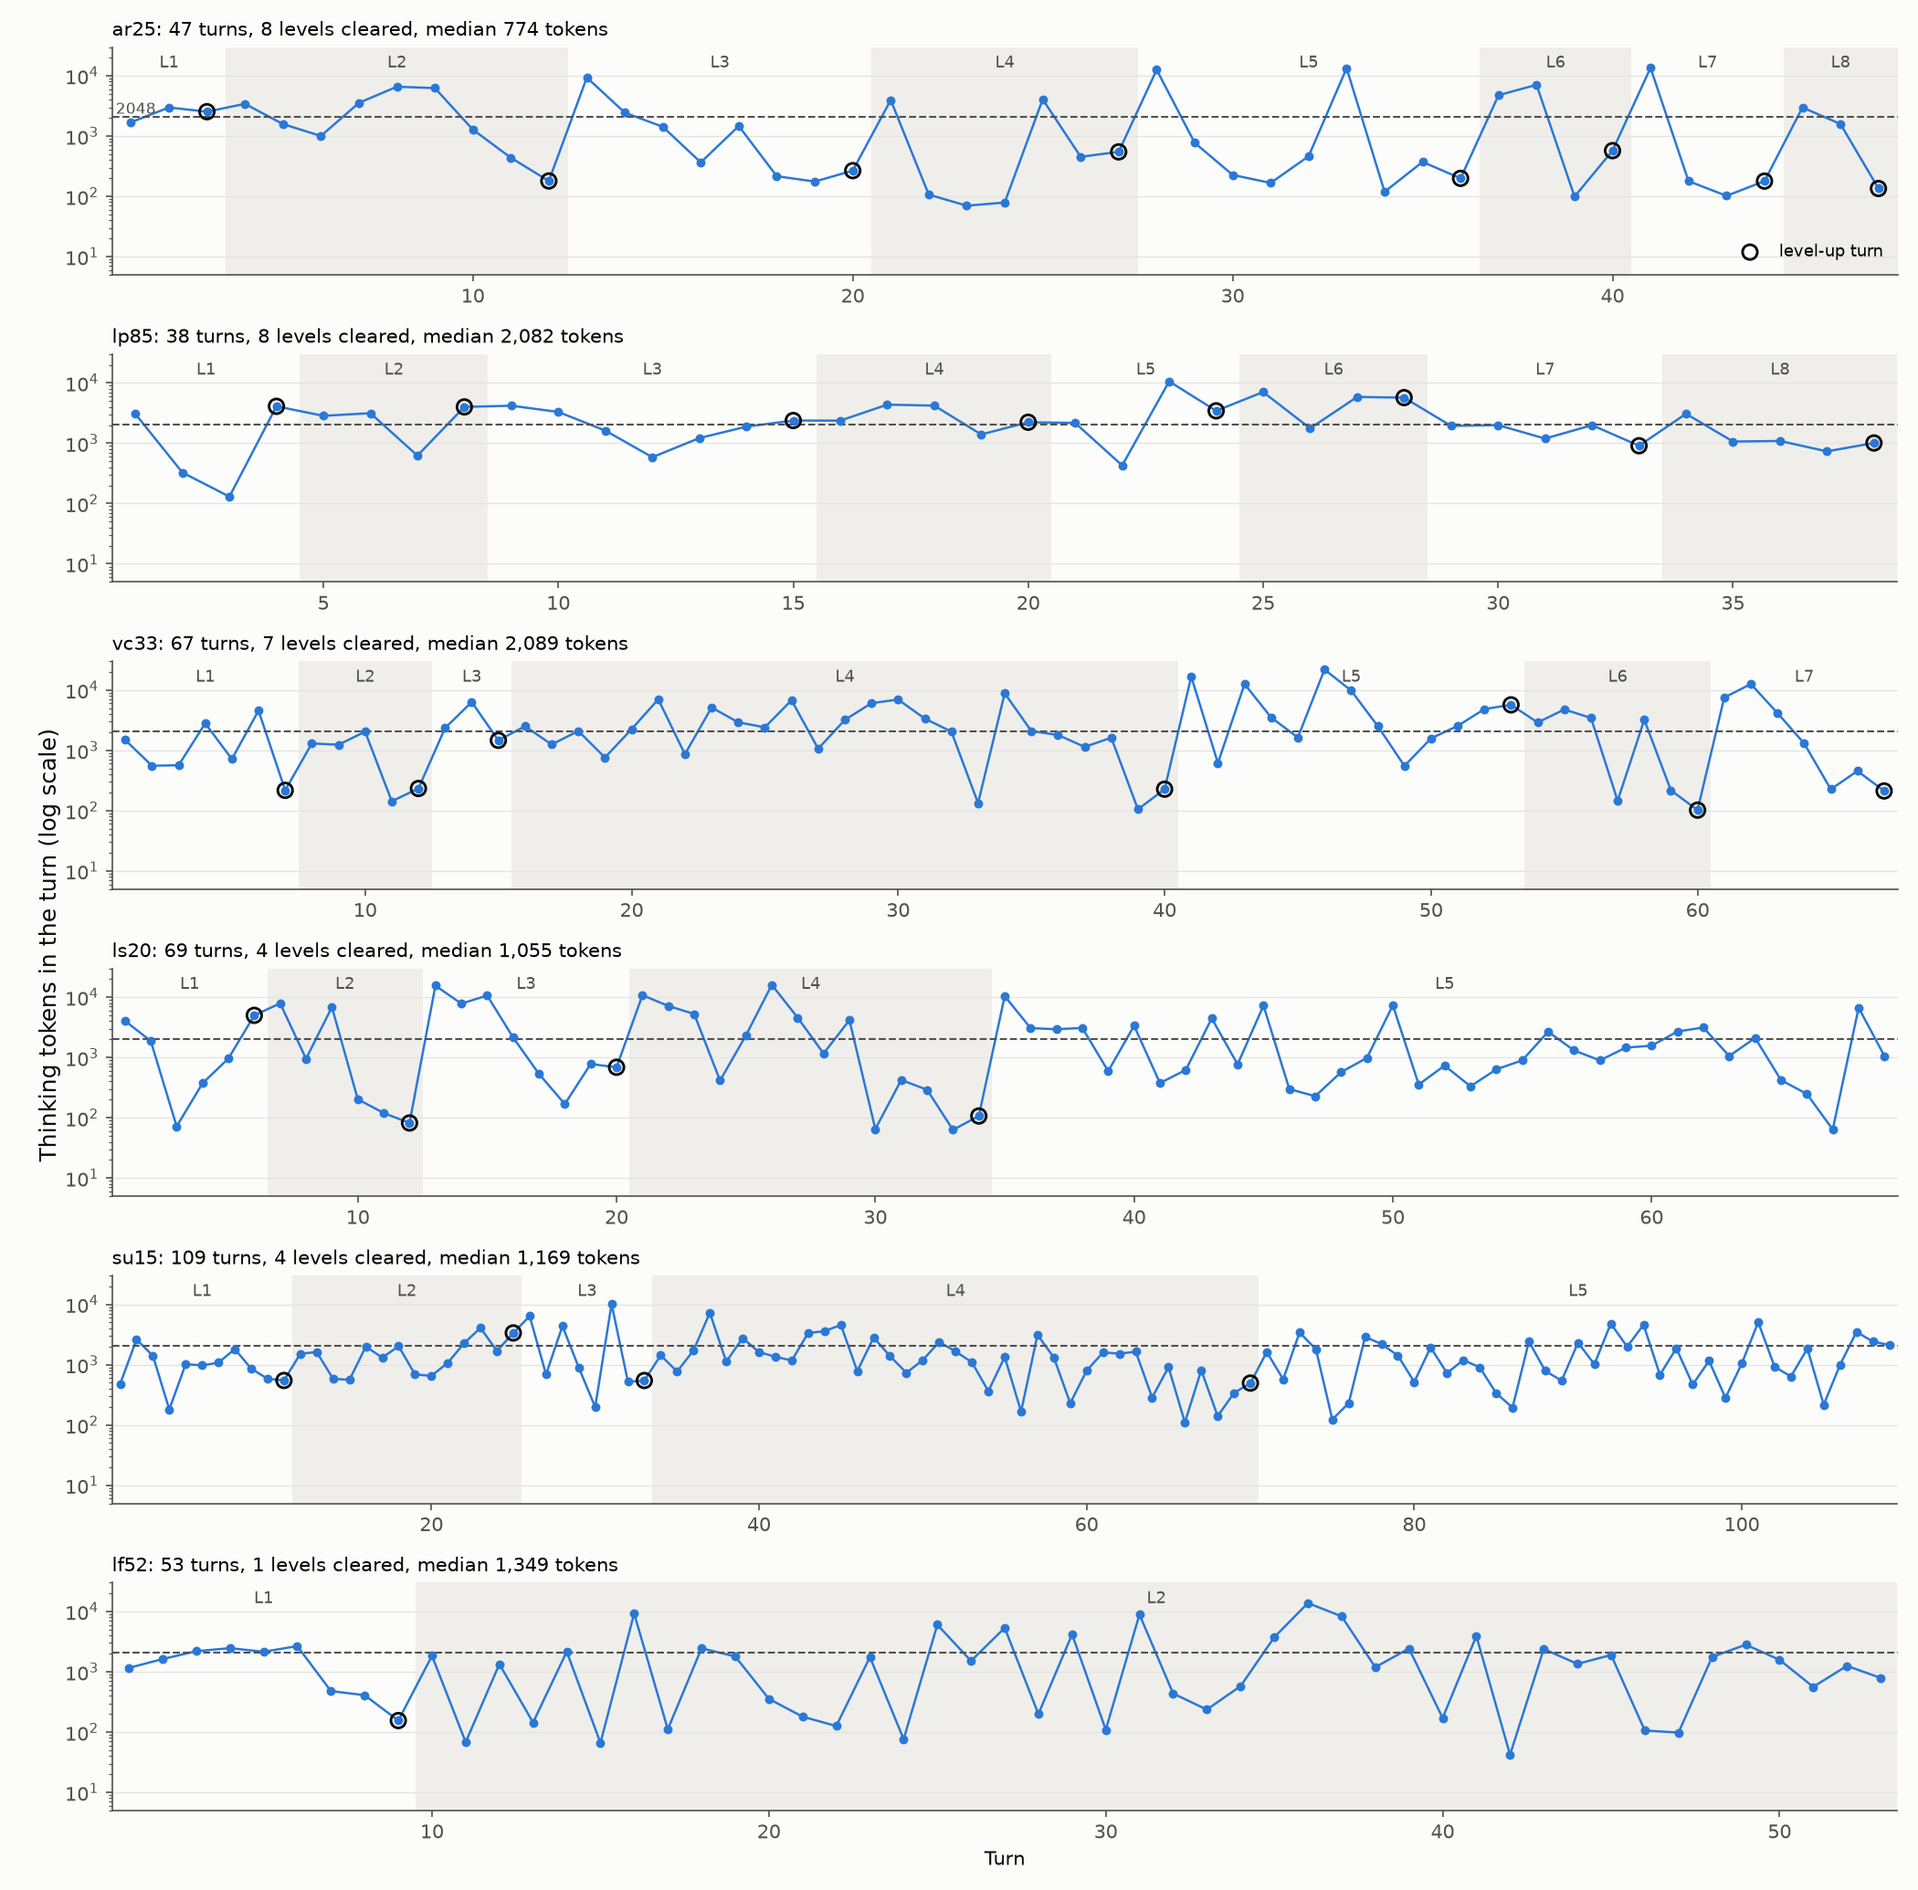
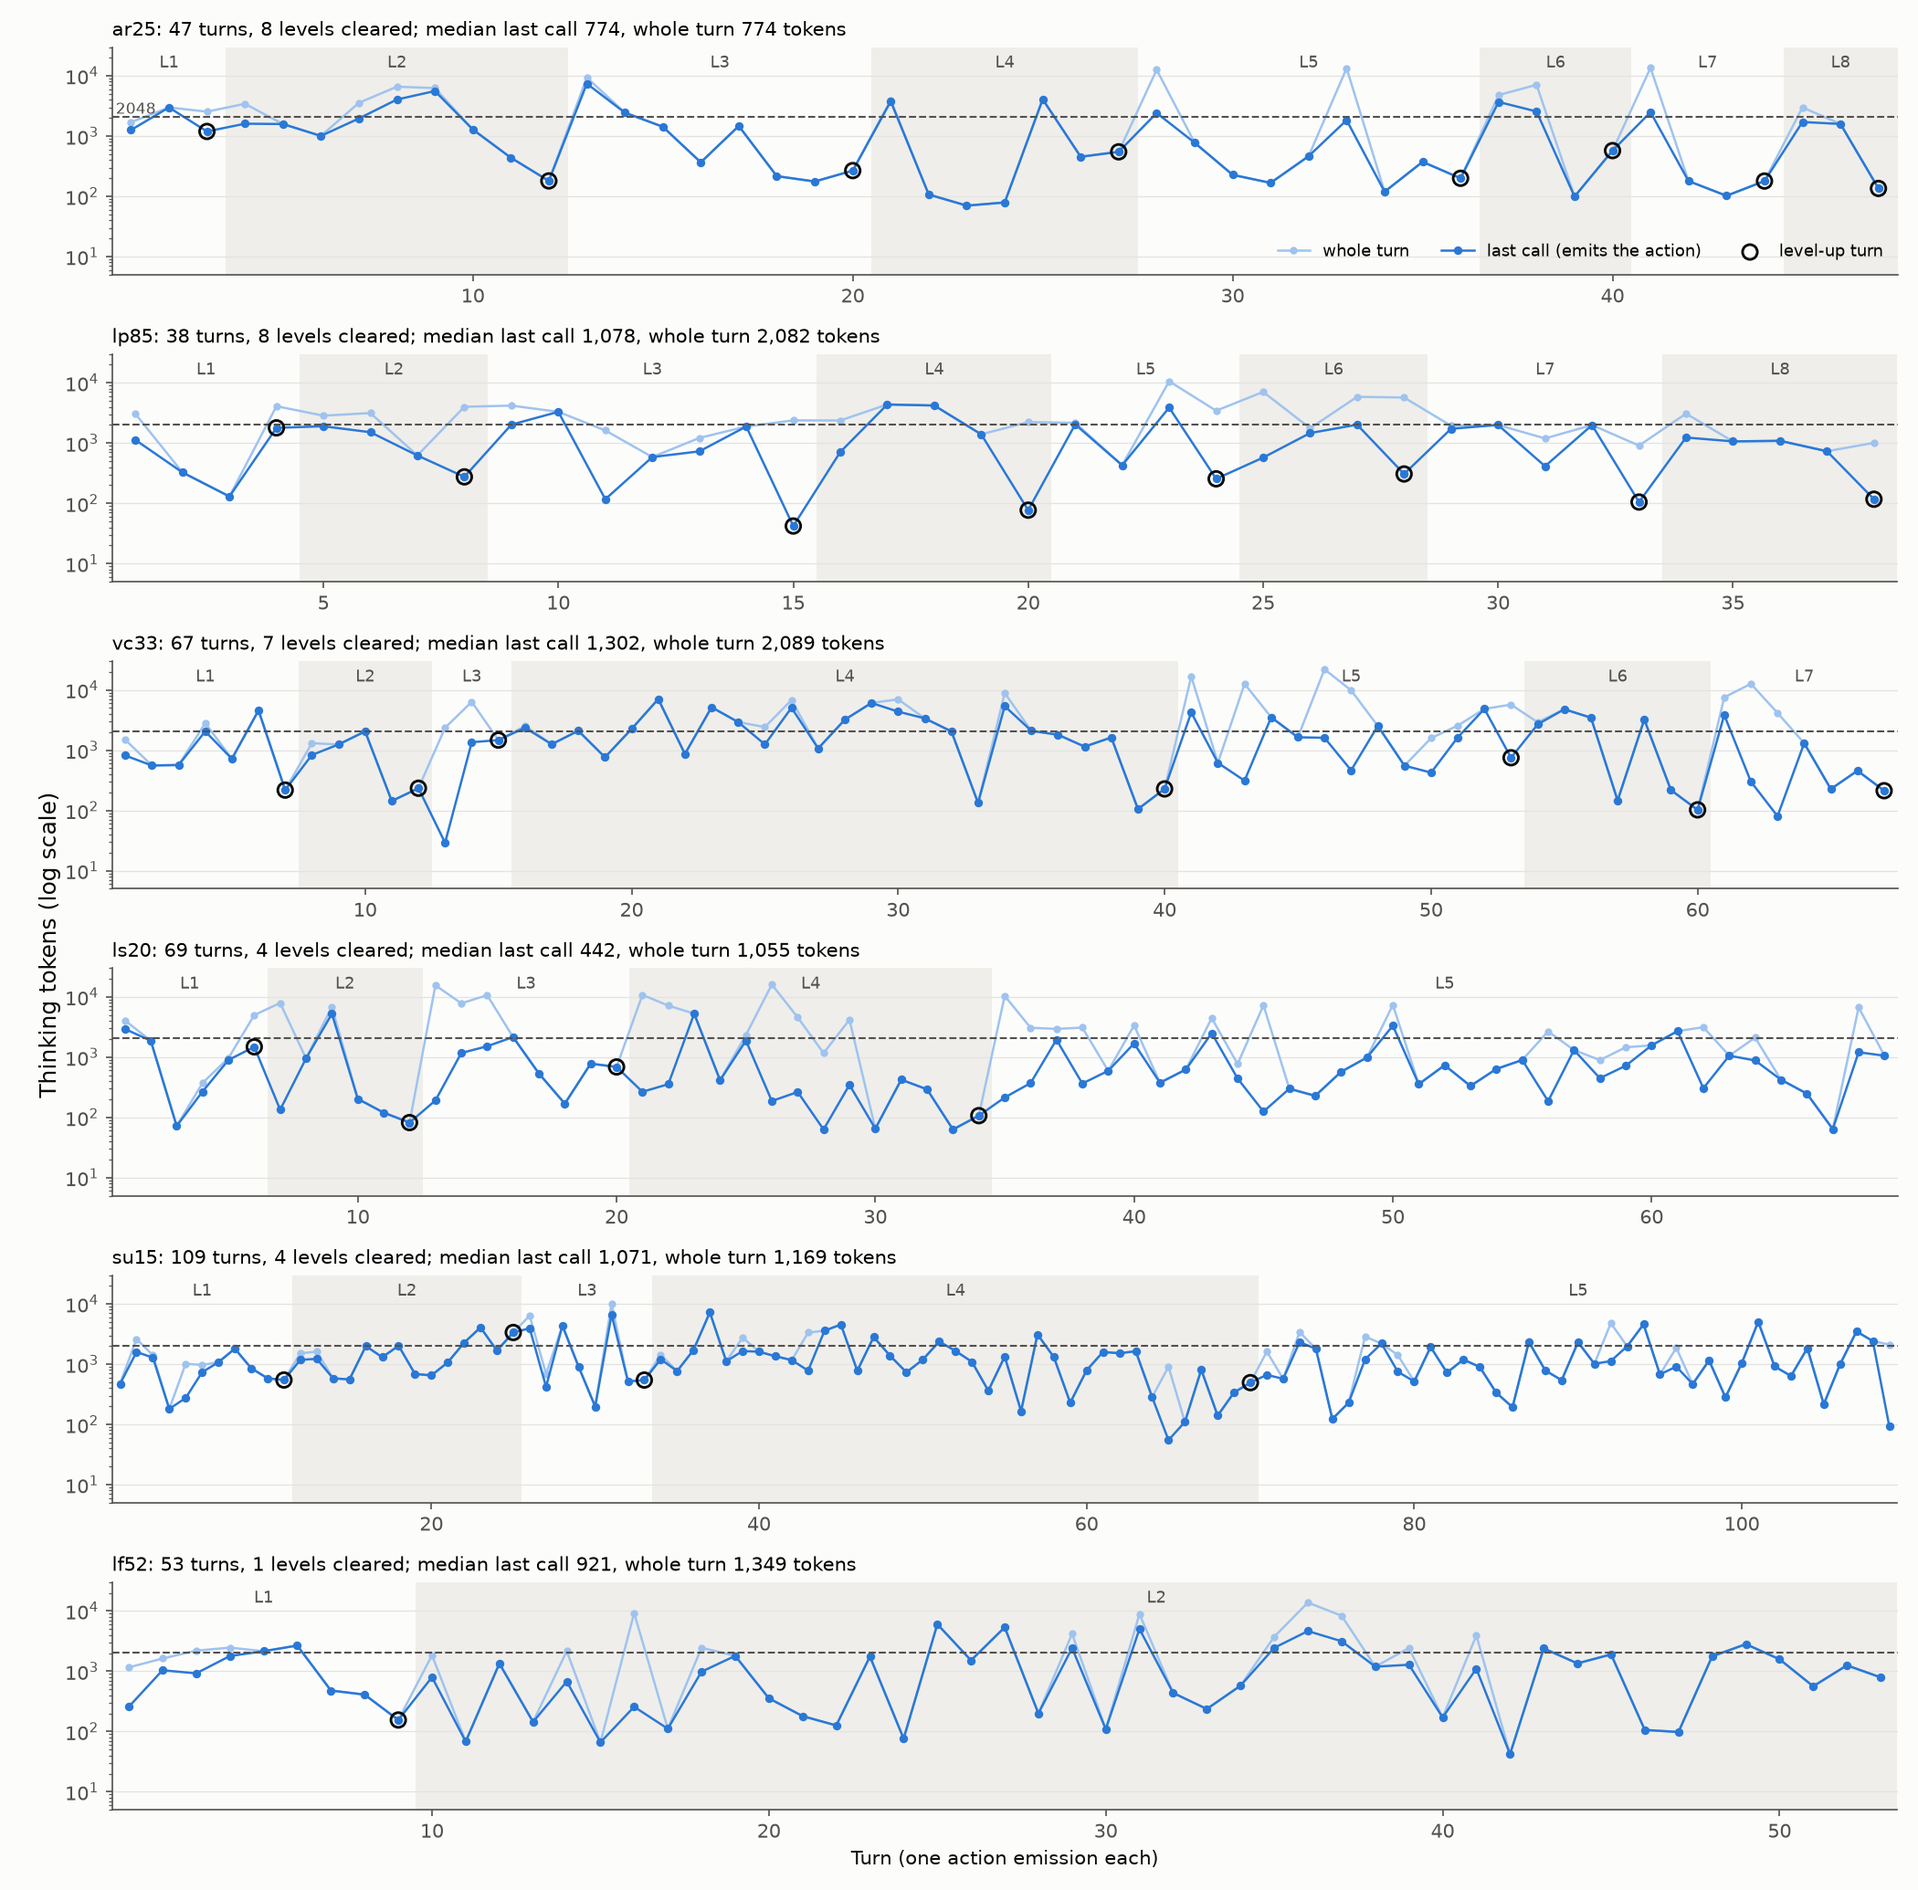
Trace last-call thinking next to whole-turn thinking

diff --git a/docs/reasoning/scripts/thinking_trace.py b/docs/reasoning/scripts/thinking_trace.py
@@ -1,10 +1,18 @@
 """Per-turn thinking tokens over a game, with level regions shaded.
 
-Reads data/games_turns.csv (exact `usage.reasoning_tokens`, written by
-thinking_vs_level_up_games.py) and plots a few Daniel v05 games.
+A turn is the model calls between two action emissions: exploratory python
+calls, then the call that emits the action (the turn's last call). Plots both
+the turn's total thinking and the last call's thinking, from exact
+`usage.reasoning_tokens` in a run's request logs. Levels and level-ups come
+from data/games_turns.csv (written by thinking_vs_level_up_games.py).
+
+Needs `*_p0_requests.jsonl` under ARC3-Inference/runs/kaggle (or ARC3_RUNS_DIR);
+the duck-harness copy of the run has them.
 
     python3 docs/reasoning/scripts/thinking_trace.py
 """
+import json
+import os
 from pathlib import Path
 
 import matplotlib
@@ -14,10 +22,24 @@ matplotlib.use("Agg")
 import matplotlib.pyplot as plt  # noqa: E402
 
 REPORT = Path(__file__).resolve().parents[1]
-RUN = "daniel_v05"
+K = Path(os.environ.get("ARC3_RUNS_DIR", REPORT.parents[1] / "ARC3-Inference/runs")) / "kaggle"
+RUN, RUN_DIR = "daniel_v05", K / "dangthuygiang/arc3-v207-danibase-base-dfranzen/v05"
 GAMES = ["ar25", "lp85", "vc33", "ls20", "su15", "lf52"]
-INK, MUTED, GRID, SURF, LINE = "#0b0b0b", "#52514e", "#e4e3df", "#fcfcfb", "#2a78d6"
+INK, MUTED, GRID, SURF = "#0b0b0b", "#52514e", "#e4e3df", "#fcfcfb"
+TURN, LAST = "#9fc3ee", "#2a78d6"
 SHADES = ["#fcfcfb", "#efeeea"]
+
+
+def last_call_thinking(game):
+    """Reasoning tokens of each step's last response (the action-emitting call)."""
+    path = next(RUN_DIR.glob(f"{game}-*_p0_requests.jsonl"))
+    last = {}
+    for line in open(path):
+        r = json.loads(line)
+        if r["event"] == "response":
+            last[r["analysis_step"]] = (r.get("usage") or {}).get("reasoning_tokens") or 0
+    return pd.Series(last, name="last")
+
 
 plt.rcParams.update({"font.size": 10, "axes.edgecolor": MUTED, "axes.labelcolor": INK, "xtick.color": MUTED,
                      "ytick.color": MUTED, "axes.spines.top": False, "axes.spines.right": False,
@@ -26,25 +48,31 @@ d = pd.read_csv(REPORT / "data/games_turns.csv")
 d = d[d.run == RUN]
 fig, axes = plt.subplots(len(GAMES), 1, figsize=(14, 2.3 * len(GAMES)), sharey=True)
 for ax, game in zip(axes, GAMES):
-    y = d[d.game == game].reset_index(drop=True)
+    y = d[d.game == game].set_index("step").join(last_call_thinking(game)).reset_index()
     y["turn"] = y.index + 1
     for i, (lv, seg) in enumerate(y.groupby("level")):
         lo, hi = seg.turn.min() - .5, seg.turn.max() + .5
         ax.axvspan(lo, hi, color=SHADES[i % 2], lw=0)
         ax.text((lo + hi) / 2, 2.2e4, f"L{lv}", ha="center", va="top", color=MUTED, fontsize=8.5)
-    ax.plot(y.turn, y.think.clip(lower=1), color=LINE, lw=1.2)
-    ax.scatter(y.turn, y.think.clip(lower=1), s=14, color=LINE, zorder=3)
+    ax.plot(y.turn, y.think.clip(lower=1), color=TURN, lw=1.2, marker="o", ms=3, label="whole turn")
+    ax.plot(y.turn, y["last"].clip(lower=1), color=LAST, lw=1.2, marker="o", ms=3.5, label="last call (emits the action)")
     up = y[y.level_up == 1]
-    ax.scatter(up.turn, up.think.clip(lower=1), s=60, facecolor="none", edgecolor=INK, lw=1.4, zorder=4,
+    ax.scatter(up.turn, up["last"].clip(lower=1), s=60, facecolor="none", edgecolor=INK, lw=1.4, zorder=4,
                label="level-up turn")
     ax.axhline(2048, color=MUTED, lw=1, ls="--")
     ax.set(yscale="log", ylim=(5, 3e4), xlim=(0.5, len(y) + .5))
-    ax.set_title(f"{game}: {len(y)} turns, {int(y.level_up.sum())} levels cleared, "
-                 f"median {y.think.median():,.0f} tokens", loc="left", fontsize=10)
+    ax.set_title(f"{game}: {len(y)} turns, {int(y.level_up.sum())} levels cleared; median last call "
+                 f"{y['last'].median():,.0f}, whole turn {y.think.median():,.0f} tokens", loc="left", fontsize=10)
     ax.grid(axis="y", color=GRID, lw=.6)
-axes[0].legend(frameon=False, fontsize=8.5, loc="lower right")
+axes[0].legend(frameon=False, fontsize=8.5, loc="lower right", ncol=3)
 axes[0].text(0.6, 2048 * 1.15, "2048", color=MUTED, fontsize=8)
-axes[-1].set_xlabel("Turn")
-fig.supylabel("Thinking tokens in the turn (log scale)", color=INK)
+axes[-1].set_xlabel("Turn (one action emission each)")
+fig.supylabel("Thinking tokens (log scale)", color=INK)
 fig.tight_layout()
 fig.savefig(REPORT / "figures/thinking_trace_daniel_v05.png", dpi=150)
+
+y = d.set_index(["game", "step"])
+calls = pd.concat({g: last_call_thinking(g) for g in d.game.unique()}).rename_axis(["game", "step"])
+both = y.join(calls)
+print(f"{RUN}: last call is {both['last'].sum() / both.think.sum():.0%} of all thinking; "
+      f"median last call {both['last'].median():.0f} vs whole turn {both.think.median():.0f} tokens")
